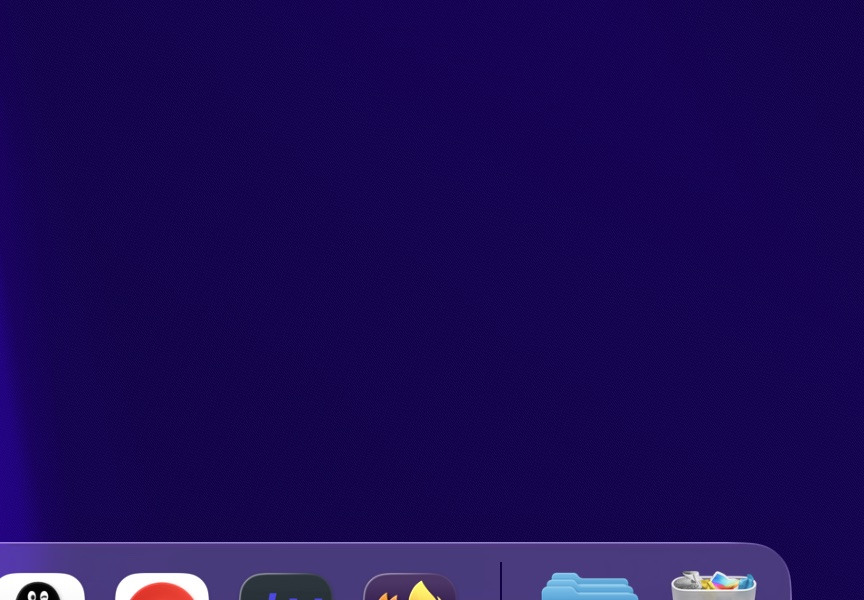
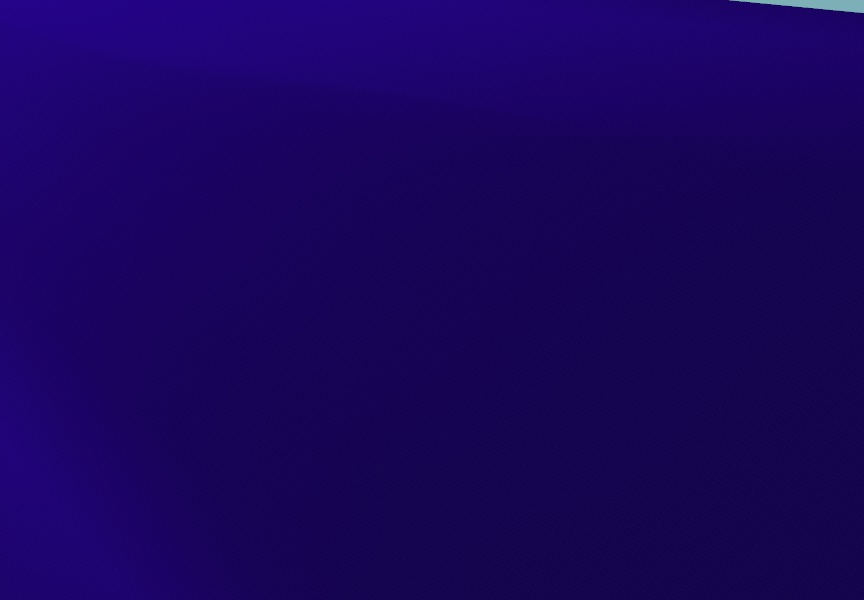
Update screenshot (top-right) and translate README to English

Changed region(s): [[0.0, 0.0, 1.0, 0.48], [0.0, 0.6, 0.9375, 1.0]]

diff --git a/README.md b/README.md
@@ -1,45 +1,45 @@
 # Command Code Desktop Widget
 
-> macOS 桌面悬浮窗，实时监控你的 Command Code API 用量。
+> A native macOS floating widget for monitoring your Command Code API usage in real time.
 
-一个原生 SwiftUI 编写的纯玻璃质感小部件，贴在桌面上显示你的 token 消耗、费用和模型使用分布。灵感来自 Apple Screen Time 的简洁设计。
+Built with SwiftUI, inspired by Apple Screen Time's clean aesthetics. Glass-morphism, per-model bar charts, zero Xcode required.
 
 ![screenshot](screenshot.jpg)
 
-## 功能
+## Features
 
-- **实时用量监控** — Cost / Tokens / Runs / Success Rate 一目了然
-- **模型分色柱状图** — DeepSeek-V4-Pro、DeepSeek-V4-Flash、K2.5、K2.6、MiniMax，各色一根柱子
-- **Hover tooltip** — 悬停柱子查看该小时各模型详细用量
-- **玻璃材质** — ultraThinMaterial（桌面/玻璃质感）+ regularMaterial（点击时不透明）
-- **拖拽吸附** — 24px 网格对齐，拖动时有白色高亮框提示
-- **右键菜单** — 刷新数据 / 退出
-- **自动刷新** — 每 30 分钟 + 回到桌面自动刷新
-- **余额显示** — 绿色/橙色指示灯 < $1
+- **Usage at a glance** — Total Cost / Tokens / Runs / Success Rate
+- **Per-model breakdown** — DeepSeek-V4-Pro, DeepSeek-V4-Flash, K2.5, K2.6, MiniMax, each with a distinct color
+- **Hover tooltips** — See per-model detail per hour by hovering over a bar
+- **Glass materials** — ultraThinMaterial (when idle) / regularMaterial (when focused)
+- **Drag snapping** — 24px grid alignment with a white highlight border during drag
+- **Right-click menu** — Refresh data / Quit
+- **Auto refresh** — Every 30 minutes + on returning to desktop
+- **Credit indicator** — Green/orange dot shows if monthly credits are above/below $1
 
-## 系统要求
+## Requirements
 
 - macOS 26+
-- Firefox 浏览器（需已登录 [commandcode.ai](https://commandcode.ai)）
-- Xcode Command Line Tools（`swiftc`）
+- Firefox (logged into [commandcode.ai](https://commandcode.ai))
+- Xcode Command Line Tools (`swiftc`)
 
-## 快速开始
+## Quick Start
 
 ```bash
-# 1. Clone
+# Clone
 git clone https://github.com/MitoroMisaka/commandcode-desktop-widget.git
 cd commandcode-desktop-widget
 
-# 2. Build
+# Build
 ./build.sh
 
-# 3. Launch
+# Launch
 open .build/CC.app
 ```
 
-## 构建
+## Build
 
-不需要 Xcode GUI，纯 `swiftc` 命令行：
+No Xcode GUI needed — pure `swiftc`:
 
 ```bash
 swiftc -sdk "$(xcrun --sdk macosx --show-sdk-path)" \
@@ -53,45 +53,45 @@ swiftc -sdk "$(xcrun --sdk macosx --show-sdk-path)" \
   Sources/App.swift
 ```
 
-## 工作原理
+## How It Works
 
-### 数据来源
+### Data Source
 
-Widget 从 Command Code 的内部 API 拉取数据，这些端点同样被 [commandcode.ai/studio](https://commandcode.ai/studio) 使用：
+The widget pulls from Command Code's internal API — the same endpoints used by [commandcode.ai/studio](https://commandcode.ai/studio):
 
-| 端点 | 内容 |
-|------|------|
-| `/internal/usage/summary` | 总用量摘要（cost/tokens/runs/successRate） |
-| `/internal/usage/charts` | 按小时分桶的逐模型用量数据 |
-| `/internal/billing/credits` | 月末余额 |
+| Endpoint | What |
+|----------|------|
+| `/internal/usage/summary` | Aggregate usage (cost, tokens, runs, success rate) |
+| `/internal/usage/charts` | Per-hour, per-model usage buckets |
+| `/internal/billing/credits` | Monthly credit balance |
 
-### Cookie 认证
+### Authentication
 
-Widget 自动从 Firefox 的 cookie 数据库读取会话 token。确保 Firefox 已登录 `commandcode.ai`。
+The widget reads your session token from Firefox's cookie database. Make sure Firefox is logged into `commandcode.ai`.
 
-默认 Firefox profile 为 `7wpm1h7n.default-release`——如果不同，请修改 `Sources/TokenExtractor.swift` 的 `dbPath`：
+The default Firefox profile is `7wpm1h7n.default-release` — update `dbPath` in `Sources/TokenExtractor.swift` if yours differs:
 
 ```swift
-static let dbPath = NSHomeDirectory() + "/Library/Application Support/Firefox/Profiles/<你的profile>/cookies.sqlite"
+static let dbPath = NSHomeDirectory() + "/Library/Application Support/Firefox/Profiles/<your-profile>/cookies.sqlite"
 ```
 
-### 显示逻辑
+### Display Logic
 
-- API 返回的 UTC 时间戳自动转换为 JST（东九区）显示
-- 柱状图最多显示最近 10 个小时的数据
-- 数据按模型分色堆叠，悬停查看详细分布
+- UTC timestamps from the API are converted to JST (Asia/Tokyo) for display
+- The bar chart shows the 10 most recent hours
+- Bars are stacked by model, colored accordingly — hover for details
 
-## 同类项目对比
+## Similar Projects
 
-| 项目 | 平台 | 目标服务 |
-|------|------|----------|
-| `chillikai/claude-usage-widget` | macOS 菜单栏 | Claude API |
-| `croustibat/ClaudeWidget` | macOS 桌面 | Claude API |
-| `lkltxwd001/deepseek-desktop-widget` | macOS 桌面 | DeepSeek API |
-| **本项目** | macOS 桌面 | **Command Code** |
+| Project | Platform | Service |
+|---------|----------|---------|
+| `chillikai/claude-usage-widget` | macOS Menubar | Claude API |
+| `croustibat/ClaudeWidget` | macOS Desktop | Claude API |
+| `lkltxwd001/deepseek-desktop-widget` | macOS Desktop | DeepSeek API |
+| **This project** | macOS Desktop | **Command Code** |
 
-这是首个 Command Code 桌面用量监控工具。
+This is the first desktop usage monitor for Command Code.
 
-## 许可证
+## License
 
 MIT